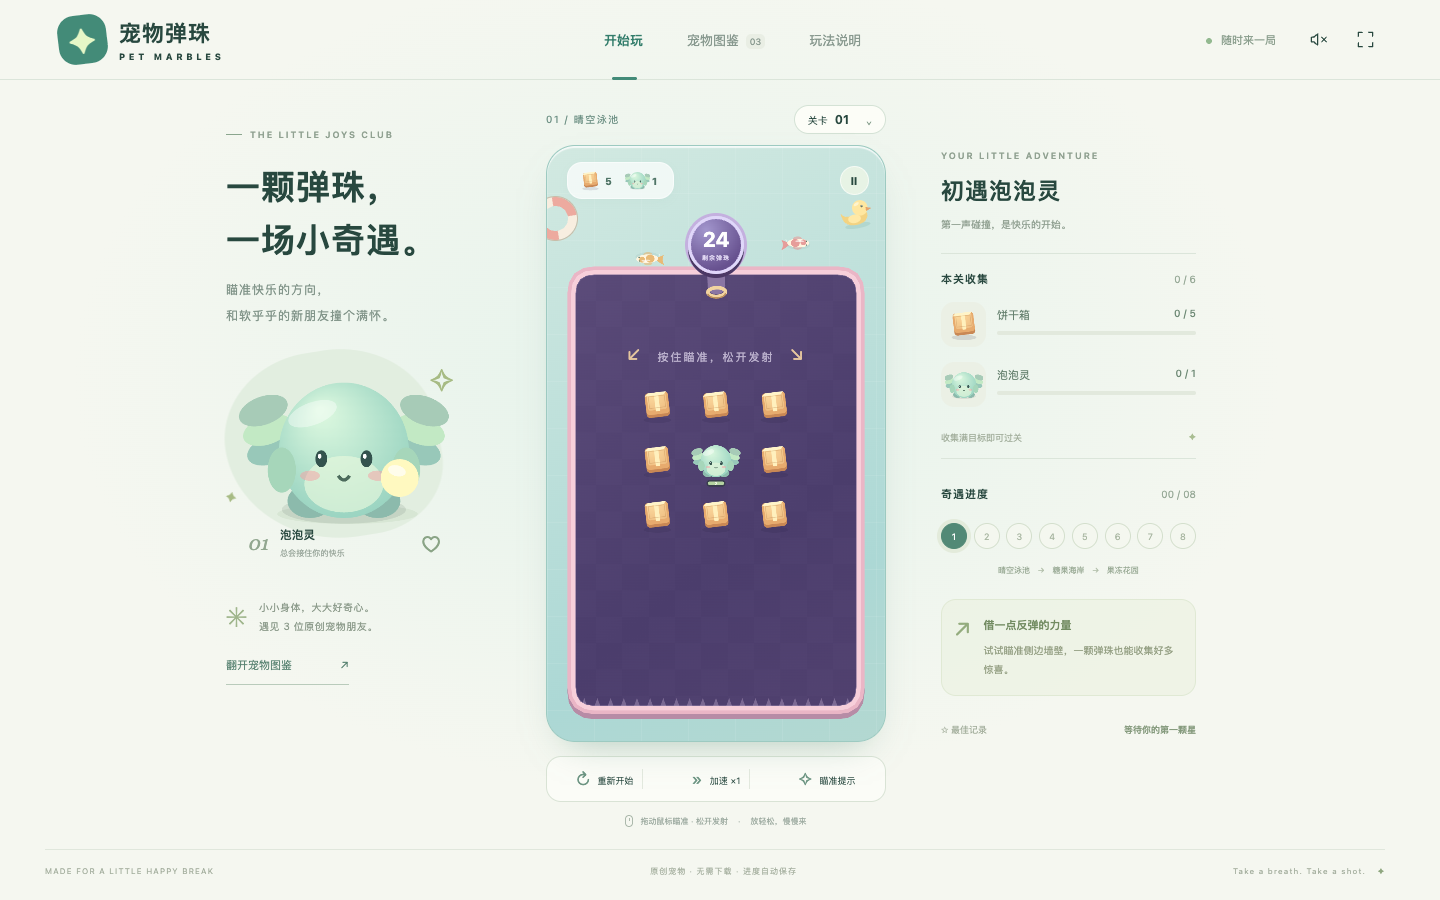
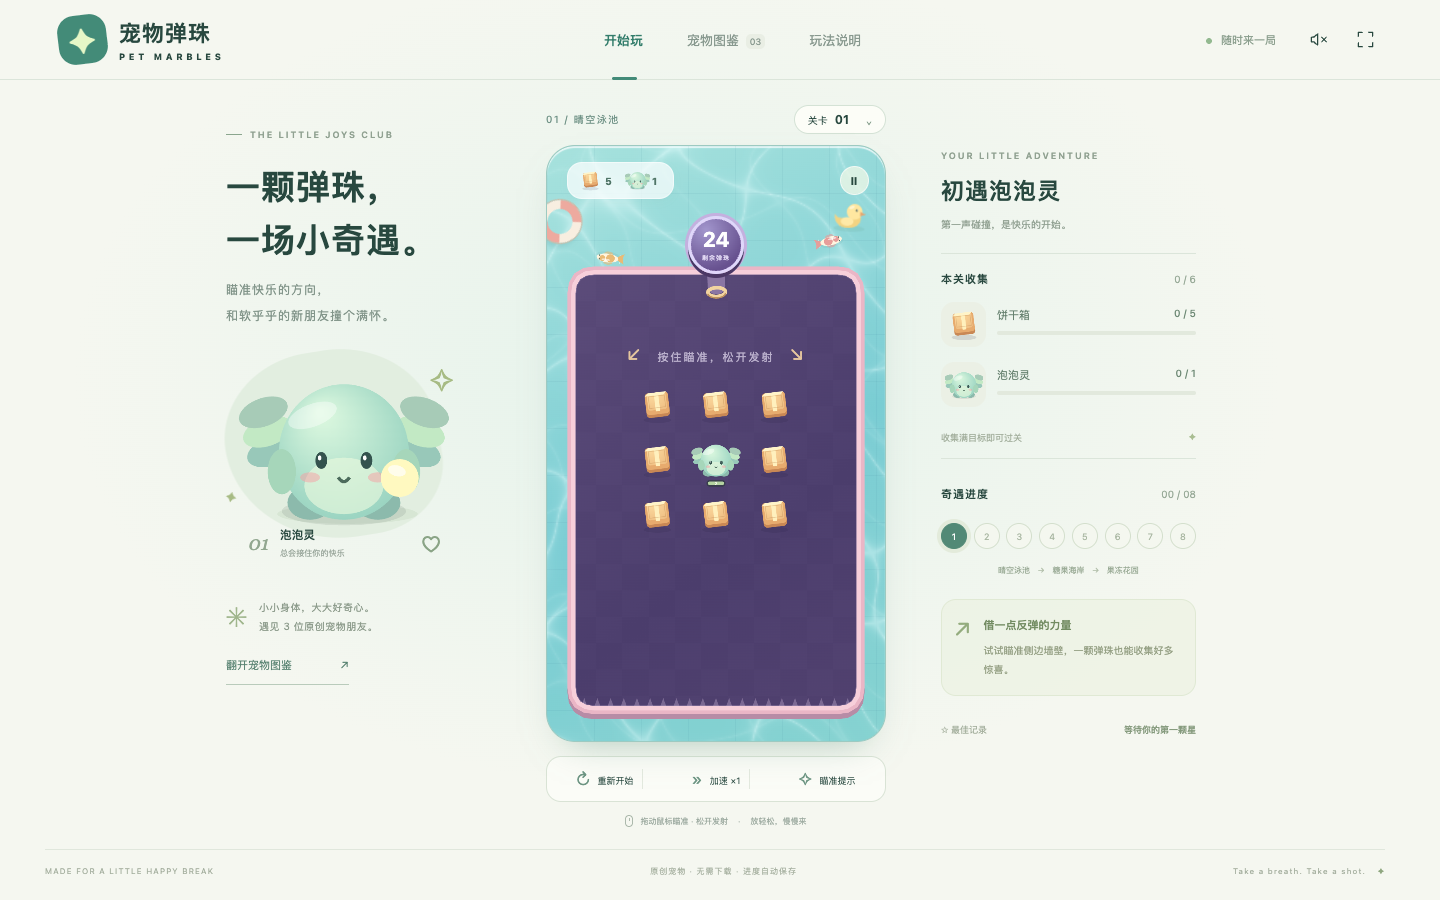
Animate pool water, rubber duck and floating ring

Changed region(s): [[0.375, 0.1556, 0.625, 0.84], [0.2188, 0.56, 0.25, 0.5911]]

diff --git a/dist/app.js b/dist/app.js
@@ -15,6 +15,51 @@ const $ = (id) => document.getElementById(id),
   canvas = $("game"),
   ctx = canvas.getContext("2d");
 ctx.scale(canvas.width / W, canvas.height / H);
+const pool = $("pool-water"),
+  poolCtx = pool.getContext("2d"),
+  reducedMotion = window.matchMedia("(prefers-reduced-motion: reduce)");
+let poolFrame,
+  lastWater = -Infinity;
+new ResizeObserver(() => {
+  const rect = pool.parentElement.getBoundingClientRect();
+  pool.width = 220;
+  pool.height = Math.ceil((220 * rect.height) / rect.width);
+  poolFrame = poolCtx.createImageData(pool.width, pool.height);
+  for (let i = 0; i < poolFrame.data.length; i += 4) {
+    poolFrame.data[i] = 233;
+    poolFrame.data[i + 1] = 255;
+    poolFrame.data[i + 2] = 255;
+  }
+  lastWater = -Infinity;
+}).observe(pool.parentElement);
+
+function drawPoolWater(now) {
+  if (!poolFrame || now - lastWater < 40) return;
+  lastWater = now;
+  const t = reducedMotion.matches ? 0 : now / 1000;
+  for (let y = 0; y < pool.height; y++) {
+    const v = (y / pool.width) * 8;
+    const drift =
+      0.65 * Math.sin(v * 1.1 + t * 0.4) + 0.25 * Math.cos(v * 2.3 - t * 0.3);
+    for (let x = 0; x < pool.width; x++) {
+      const u = (x / pool.width) * 8;
+      const wx = u + drift;
+      const wy =
+        v +
+        0.65 * Math.cos(u * 1.25 - t * 0.35) +
+        0.25 * Math.sin(u * 2 + t * 0.5);
+      const field = Math.sin(wx * 2 + t * 0.2) + Math.sin(wy * 2 - t * 0.25);
+      const cross =
+        Math.sin((wx + wy) * 1.4 + t * 0.15) +
+        Math.cos((wx - wy) * 1.7 - t * 0.2);
+      poolFrame.data[(y * pool.width + x) * 4 + 3] =
+        7 +
+        105 / (1 + Math.abs(field) * 7) ** 2 +
+        35 / (1 + Math.abs(cross) * 9) ** 2;
+    }
+  }
+  poolCtx.putImageData(poolFrame, 0, 0);
+}
 const STORAGE = "pet-marbles-v1";
 let saved;
 try {
@@ -546,6 +591,7 @@ function animate(now) {
     }
     floats = floats.filter((f) => f.life > 0);
   }
+  drawPoolWater(now);
   drawBoard();
   if (Math.round(now / 100) % 2 === 0) resizeArt();
   requestAnimationFrame(animate);

diff --git a/dist/style.css b/dist/style.css
@@ -328,7 +328,7 @@ h1 > span:after {
 }
 .arcade {
   position: relative;
-  background: linear-gradient(155deg, #d2e9e1, #acd8d5 75%, #b3d8d1);
+  background: linear-gradient(155deg, #a5e1dc, #77cbd2 55%, #83d1cf);
   border: 1px solid #9dcac1;
   border-radius: 29px;
   padding: 70px 8px 13px;
@@ -342,10 +342,17 @@ h1 > span:after {
   position: absolute;
   inset: 0;
   background-image:
-    linear-gradient(#fff2 1px, transparent 1px),
-    linear-gradient(90deg, #fff2 1px, transparent 1px);
+    linear-gradient(#397f941f 1px, transparent 1px),
+    linear-gradient(90deg, #397f941f 1px, transparent 1px);
   background-size: 47px 47px;
-  opacity: 0.6;
+  opacity: 0.7;
+  pointer-events: none;
+}
+.pool-water {
+  position: absolute;
+  inset: 0;
+  width: 100%;
+  height: 100%;
   pointer-events: none;
 }
 .game-hud {
@@ -449,6 +456,8 @@ h1 > span:after {
   transform: rotate(35deg);
   border-top-color: #edaa9f;
   border-bottom-color: #edaa9f;
+  box-shadow: 2px 5px 5px #367f8829;
+  animation: ring-drift 8s ease-in-out infinite;
 }
 .duck {
   right: 12px;
@@ -456,6 +465,48 @@ h1 > span:after {
   width: 34px;
   height: 34px;
   transform: rotate(-10deg);
+  transform-origin: 50% 70%;
+  animation: duck-drift 6.5s ease-in-out infinite;
+}
+.duck > ellipse:first-child {
+  transform-box: fill-box;
+  transform-origin: center;
+  animation: duck-ripple 3.25s ease-in-out infinite;
+}
+@keyframes duck-drift {
+  0%,
+  100% {
+    transform: translate(0, 0) rotate(-10deg);
+  }
+  35% {
+    transform: translate(-7px, 3px) rotate(3deg);
+  }
+  70% {
+    transform: translate(-3px, -3px) rotate(-17deg);
+  }
+}
+@keyframes ring-drift {
+  0%,
+  100% {
+    transform: translate(0, 0) rotate(35deg);
+  }
+  40% {
+    transform: translate(6px, 4px) rotate(51deg);
+  }
+  75% {
+    transform: translate(2px, -3px) rotate(24deg);
+  }
+}
+@keyframes duck-ripple {
+  0%,
+  100% {
+    transform: scale(1);
+    opacity: 0.6;
+  }
+  50% {
+    transform: scale(1.25, 1.15);
+    opacity: 1;
+  }
 }
 .board-tip {
   position: absolute;

diff --git a/dist/index.html b/dist/index.html
@@ -91,6 +91,7 @@
           </button>
         </div>
         <div class="arcade">
+          <canvas id="pool-water" class="pool-water" aria-hidden="true"></canvas>
           <div class="pool-deco ring"></div>
           <svg class="pool-deco duck" viewBox="0 0 48 48" aria-hidden="true">
             <ellipse cx="24" cy="39" rx="18" ry="4" fill="#6da99b33" />
